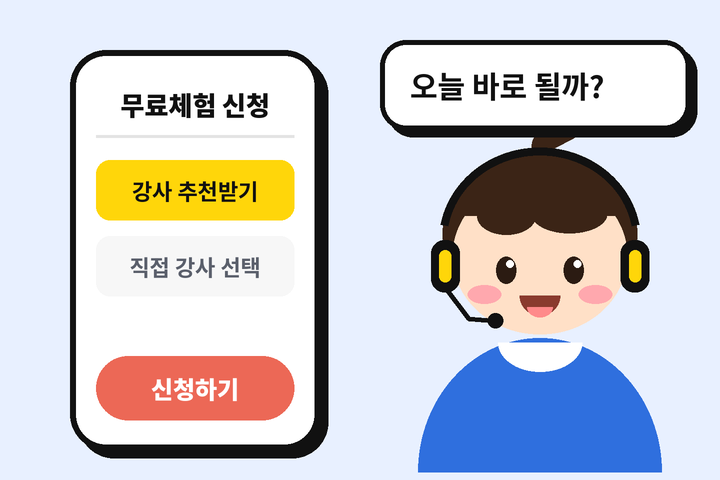
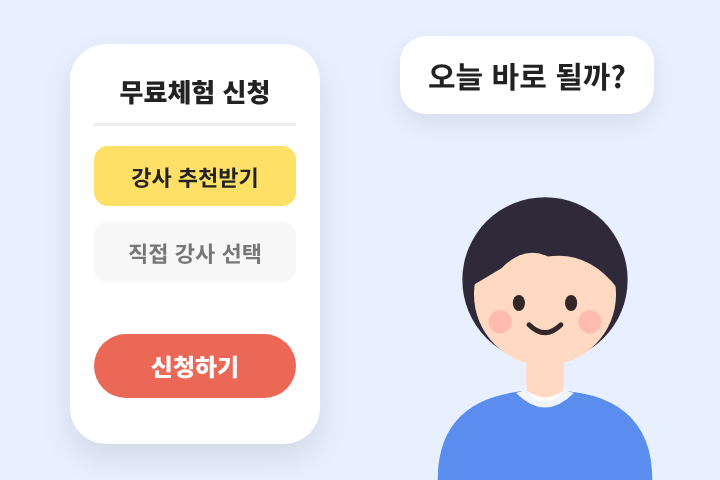
Redraw about page illustrations with soft pastel characters
Claude-Session: https://claude.ai/code/session_01HUwuhgDghhNRq5em17ycBb

diff --git a/about-assets/tools/about_images.py b/about-assets/tools/about_images.py
@@ -1,111 +1,141 @@
 #!/usr/bin/env python3
 """아인잉글리쉬 about 페이지('왜 아인 화상영어일까?')용 그림 생성기.
+
 사용법: python3 about-assets/tools/about_images.py about-assets/
-블로그 그림과 같은 캐릭터(blog_images.py)를 쓰고, 색은 로고 코랄에 맞춘다.
+부드러운 파스텔 캐릭터(테두리 없는 색면)로 그린다. 색은 로고 코랄에 맞춘다.
+필요한 것: playwright, Chrome(/usr/bin/google-chrome), Noto Sans CJK KR 글꼴.
 """
 import sys, os
-sys.path.insert(0, os.path.join(os.path.dirname(__file__), '..', '..', 'blog-assets', 'tools'))
-from blog_images import *
-from PIL import ImageDraw
-CORAL='#EC6856'; TINT='#FDF1EE'; SOFT='#F7F7F7'; LINE='#E3E3E3'; GREEN='#10B981'; GBG='#ECFDF5'; ABG='#FFFBEB'; AMB='#D97706'
-STU=dict(shirt=BLUE); TEA=dict(shirt=CORAL,hair='#5A2E12',long=True,mood='smile')
-def strike(d,x,y,t,f,fill=GRAY,anchor='lm'):
-    T(d,(x,y),t,f,fill,anchor); w=tw(t,f); x0=x if anchor[0]=='l' else x-w/2
-    d.line([(x0*S,(y+2)*S),((x0+w)*S,(y+2)*S)],fill=RED,width=4*S)
-def pill(d,x,y,t,size=24,fill=INK,fg=WHITE,right=False):
-    f=F('Bold',size); w=tw(t,f)+size*1.6; h=size*2.1
-    x0=x-w if right else x; R(d,(x0,y,x0+w,y+h),h/2,fill=fill); T(d,(x0+w/2,y+h/2),t,f,fg,'mm'); return w
-def bubble(d,box,lines,fill=WHITE,size=34,weight='Bold',fg=INK,tail=None):
-    card(d,box,r=26,fill=fill,off=7); x0,y0,x1,y1=box; n=len(lines); lh=size*1.45; y=(y0+y1)/2-lh*(n-1)/2
-    for l in lines:
-        T(d,(x0+30,y),l,F(weight,fit(l,weight,size,x1-x0-60)),fg,'lm'); y+=lh
 
-def hero(name):
-    W_,H_=1440,860; im=canvas(W_,H_,WHITE); d=ImageDraw.Draw(im)
-    R(d,(0,0,W_,96),0,fill=INK)
-    for i,c in enumerate((RED,YEL,MINT)): E(d,(48+i*44,34,76+i*44,62),fill=c)
-    T(d,(200,48),'1:1 화상수업',F('Bold',30),WHITE,'lm')
-    tile(im,(80,150,480,550),'#CFE0FF',mood='think',**STU); tile(im,(960,150,1360,550),'#FFD3CC',**TEA); d=ImageDraw.Draw(im)
-    T(d,(280,588),'학생',F('Bold',28),INK,'mm'); T(d,(1160,588),'선생님',F('Bold',28),INK,'mm')
-    T(d,(720,190),'그 자리에서 바로 교정',F('Bold',30),GRAY,'mm')
-    strike(d,720,290,'try',F('Black',84),GRAY,'mm'); T(d,(720,372),'↓',F('Black',44),CORAL,'mm')
-    f=F('Black',112); w=tw('tries',f); R(d,(720-w/2-22,410,720+w/2+22,545),18,fill=YEL); T(d,(720,474),'tries',f,INK,'mm')
-    card(d,(80,640,690,800),r=26,fill=SOFT,off=7); T(d,(112,682),'학생이 말한 문장',F('Bold',24),GRAY,'lm'); strike(d,112,744,'He always try to care of others.',F('Medium',33),GRAY)
-    card(d,(750,640,1360,800),r=26,fill=YEL,off=7); T(d,(782,682),'선생님이 고쳐 준 문장',F('Bold',24),INK,'lm')
-    t='He always tries to take care of others.'; T(d,(782,744),t,F('Black',fit(t,'Black',33,548)),INK,'lm')
-    out(im,name)
+CORAL = '#EC6856'; INK = '#222222'; GRAY = '#777777'; YEL = '#FFE066'; TINT = '#FDF1EE'
+BLUE_BG = '#E8F0FF'; PINK_BG = '#FFE9E4'; YEL_BG = '#FFF6D6'; MINT_BG = '#EAFBF4'
 
-def pain(name,mood,bubbles,bg):
-    W_,H_=720,480; im=canvas(W_,H_,bg); d=ImageDraw.Draw(im)
-    bust(im,170,250,92,H_,mood=mood,**STU); d=ImageDraw.Draw(im); y=70
-    for lines,fill in bubbles:
-        h=44+len(lines)*50; bubble(d,(330,y,676,y+h),lines,fill=fill,size=32); y+=h+26
-    out(im,name)
+def ch(role='s', mood='smile'):
+    """role: s(학생) | t(선생님), mood: smile | think"""
+    t = role == 't'
+    hair = '#6B4226' if t else '#2F2A3A'; shirt = CORAL if t else '#5B8DEF'; skin = '#FFD9C2'
+    g = ''
+    if t: g += f'<path d="M40,92 Q40,28 100,28 Q160,28 160,92 L164,172 Q150,184 132,176 L132,120 L68,120 L68,176 Q50,184 36,172 Z" fill="{hair}"/>'
+    else: g += f'<circle cx="100" cy="84" r="57" fill="{hair}"/>'
+    g += f'<path d="M26,222 Q26,160 100,160 Q174,160 174,222 Z" fill="{shirt}"/>'
+    g += f'<rect x="87" y="132" width="26" height="36" rx="12" fill="{skin}"/>'
+    g += '<path d="M80,162 Q100,182 120,162 L113,160 Q100,170 87,160 Z" fill="#fff" opacity=".9"/>'
+    g += f'<circle cx="100" cy="94" r="49" fill="{skin}"/>'
+    if t: g += f'<path d="M52,90 Q56,40 104,38 Q148,42 149,92 Q126,60 52,90 Z" fill="{hair}"/>'
+    else: g += f'<path d="M50,88 Q58,40 100,38 Q144,40 150,90 Q130,64 102,68 Q86,60 70,76 Q60,82 50,88 Z" fill="{hair}"/>'
+    g += '<ellipse cx="82" cy="100" rx="4.2" ry="5.6" fill="#33272A"/><ellipse cx="118" cy="100" rx="4.2" ry="5.6" fill="#33272A"/>'
+    g += '<circle cx="69" cy="113" r="8" fill="#FF9E9E" opacity=".5"/><circle cx="131" cy="113" r="8" fill="#FF9E9E" opacity=".5"/>'
+    if mood == 'think':
+        g += '<path d="M73,88 L89,84" stroke="#33272A" stroke-width="3" stroke-linecap="round"/><path d="M111,84 L127,88" stroke="#33272A" stroke-width="3" stroke-linecap="round"/>'
+        g += '<ellipse cx="100" cy="119" rx="5" ry="6" fill="#B5533F"/>'
+        g += '<path d="M160,50 Q170,66 170,74 A10,10 0 0 1 150,74 Q150,66 160,50 Z" fill="#8CC8FF"/>'
+    else:
+        g += '<path d="M89,115 Q100,126 111,115" fill="none" stroke="#33272A" stroke-width="3.4" stroke-linecap="round"/>'
+    return f'<svg xmlns="http://www.w3.org/2000/svg" viewBox="0 0 200 222">{g}</svg>'
 
-def flow(name,n,draw):
-    W_=H_=720; im=canvas(W_,H_,TINT); d=ImageDraw.Draw(im)
-    E(d,(40,40,128,128),fill=CORAL); T(d,(84,84),str(n),F('Black',48),WHITE,'mm')
-    draw(im,d); out(im,name)
-def f1(im,d):
-    tile(im,(70,190,340,460),'#CFE0FF',mood='smile',**STU); tile(im,(380,190,650,460),'#FFD3CC',**TEA); d=ImageDraw.Draw(im)
-    T(d,(205,494),'학생',F('Bold',26),INK,'mm'); T(d,(515,494),'선생님',F('Bold',26),INK,'mm')
-    bubble(d,(120,540,600,650),['25분, 선생님과 1:1 대화'],fill=WHITE,size=34)
-def f2(im,d):
-    bubble(d,(70,180,650,300),['I go to there yesterday.'],fill=WHITE,size=38,weight='Medium',fg=GRAY)
-    d.line([(100*S,242*S),(560*S,242*S)],fill=RED,width=4*S)
-    T(d,(360,352),'↓',F('Black',52),CORAL,'mm')
-    bubble(d,(70,410,650,540),['I went there yesterday.'],fill=YEL,size=42,weight='Black')
-    T(d,(360,610),'틀린 문장은 그 자리에서',F('Bold',32),INK,'mm')
-def f3(im,d):
-    R(d,(190+10,150+10,530+10,680+10),44,fill=INK); R(d,(190,150,530,680),44,fill=WHITE,outline=INK,width=6)
-    T(d,(360,204),'일일평가서',F('Black',30),INK,'mm'); d.line([(220*S,240*S),(500*S,240*S)],fill=LINE,width=3*S)
-    R(d,(220,264,500,330),12,fill=SOFT); T(d,(238,297),'Q1. Student: …',F('Medium',22),GRAY,'lm')
-    R(d,(220,346,500,446),14,fill=GBG); T(d,(238,372),'BETTER EXPRESSION',F('Bold',17),GREEN,'lm'); R(d,(238,396,470,410),7,fill='#065F46'); R(d,(238,420,400,432),6,fill='#6FCFB0')
-    R(d,(220,462,500,552),14,fill=ABG); T(d,(238,488),'ALTERNATIVE',F('Bold',17),AMB,'lm'); R(d,(238,512,450,526),7,fill='#92400E')
-    R(d,(220,580,500,640),30,fill=CORAL); T(d,(360,610),'오늘의 복습 완료하기',F('Bold',22),WHITE,'mm')
-    E(d,(486,116,574,204),fill=RED); T(d,(530,160),'1',F('Black',46),WHITE,'mm')
-def f4(im,d):
-    bust(im,190,330,100,600,mood='smile',**STU); d=ImageDraw.Draw(im)
-    card(d,(330,190,670,480),r=26,fill=WHITE,off=7); T(d,(360,236),'실전 퀴즈',F('Bold',24),GRAY,'lm')
-    T(d,(360,296),'I ____ there',F('Bold',36),INK,'lm'); T(d,(360,348),'yesterday.',F('Bold',36),INK,'lm')
-    f=F('Black',36); w=tw('went',f); R(d,(360-8,400,360+w+8,448),8,fill=YEL); T(d,(360,424),'went',f,INK,'lm')
-    E(d,(590,170,690,270),fill=GREEN); d.line([(614*S,222*S),(634*S,242*S),(668*S,200*S)],fill=WHITE,width=10*S,joint='curve')
-    R(d,(0,600,720,720),0,fill=TINT); T(d,(360,650),'고친 문장을 내 것으로',F('Bold',32),INK,'mm')
+CSS = f'''
+*{{box-sizing:border-box}} body{{margin:0}}
+.cv{{position:relative;overflow:hidden;font-family:"Noto Sans CJK KR","Noto Sans KR",sans-serif;color:{INK}}}
+.a{{position:absolute}}
+.tile{{position:absolute;border-radius:36px;overflow:hidden;display:flex;align-items:flex-end;justify-content:center}}
+.tile svg{{width:88%;display:block}}
+.fig svg{{display:block;width:100%}}
+.bub{{position:absolute;background:#fff;border-radius:26px;padding:18px 28px;font-weight:700;font-size:30px;line-height:1.4;box-shadow:0 10px 24px rgba(0,0,0,.08);white-space:nowrap}}
+.bub.y{{background:{YEL}}}
+.card{{position:absolute;background:#fff;border-radius:28px;box-shadow:0 14px 32px rgba(0,0,0,.10)}}
+.pill{{position:absolute;background:{INK};color:#fff;border-radius:40px;padding:8px 22px;font-weight:700;font-size:22px;white-space:nowrap}}
+.lab{{position:absolute;font-weight:700;font-size:26px;text-align:center}}
+.num{{position:absolute;left:40px;top:40px;width:88px;height:88px;border-radius:50%;background:{CORAL};color:#fff;font-weight:900;font-size:46px;line-height:88px;text-align:center}}
+.x{{text-decoration:line-through;text-decoration-color:{CORAL};text-decoration-thickness:4px;color:{GRAY}}}
+.cap{{position:absolute;left:0;right:0;text-align:center;font-weight:700;font-size:32px}}
+'''
 
-def trial(name,bg,draw):
-    W_,H_=720,480; im=canvas(W_,H_,bg); d=ImageDraw.Draw(im); draw(im,d); out(im,name)
-def phone(d,x,y,w,h):
-    R(d,(x+8,y+8,x+w+8,y+h+8),36,fill=INK); R(d,(x,y,x+w,y+h),36,fill=WHITE,outline=INK,width=6)
-def t1(im,d):
-    phone(d,70,50,250,400); T(d,(195,104),'무료체험 신청',F('Black',26),INK,'mm'); d.line([(96*S,136*S),(294*S,136*S)],fill=LINE,width=3*S)
-    R(d,(96,160,294,220),14,fill=YEL); T(d,(195,190),'강사 추천받기',F('Bold',22),INK,'mm')
-    R(d,(96,236,294,296),14,fill=SOFT); T(d,(195,266),'직접 강사 선택',F('Bold',22),GRAY,'mm')
-    R(d,(96,356,294,420),32,fill=CORAL); T(d,(195,388),'신청하기',F('Black',24),WHITE,'mm')
-    bust(im,540,250,84,480,mood='smile',**STU); d=ImageDraw.Draw(im)
-    bubble(d,(380,40,690,130),['오늘 바로 될까?'],fill=WHITE,size=30)
-def t2(im,d):
-    tile(im,(50,110,300,360),'#CFE0FF',mood='smile',**STU); tile(im,(330,110,580,360),'#FFD3CC',**TEA); d=ImageDraw.Draw(im)
-    E(d,(520,30,700,210),fill=INK); E(d,(530,40,690,200),fill=YEL); T(d,(610,120),'15분',F('Black',56),INK,'mm')
-    bubble(d,(120,385,600,455),['Hello! Nice to meet you.'],fill=WHITE,size=30)
-def t3(im,d):
-    card(d,(150,50,570,440),r=28,fill=WHITE,off=8); T(d,(186,100),'레벨테스트 결과',F('Black',28),INK,'lm')
-    E(d,(440,66,540,166),fill=CORAL); T(d,(490,116),'Lv.4',F('Black',34),WHITE,'mm')
-    for i,(n,w) in enumerate((('어휘',0.62),('리스닝',0.74),('유창성',0.5),('문법',0.56),('발음',0.7))):
-        y=200+i*46; T(d,(186,y),n,F('Bold',22),GRAY,'lm'); R(d,(280,y-9,534,y+9),9,fill=SOFT); R(d,(280,y-9,280+254*w,y+9),9,fill=CORAL)
-    pill(d,360-110,10,'30분~1시간 안에 도착',22,fill=INK)
-def t4(im,d):
-    bust(im,150,260,84,480,mood='smile',**STU); d=ImageDraw.Draw(im)
-    bubble(d,(290,60,690,200),['수업 시간과 교재,','같이 정해 드릴게요'],fill=YEL,size=30)
-    bubble(d,(360,240,690,320),['네, 좋아요!'],fill=WHITE,size=30)
-    pill(d,290,360,'학습 매니저 상담',22,fill=INK)
+def tile(x, y, s, bg, role, mood='smile'):
+    return f'<div class="tile" style="left:{x}px;top:{y}px;width:{s}px;height:{s}px;background:{bg}">{ch(role, mood)}</div>'
+def fig(x, w, role='s', mood='smile'):
+    return f'<div class="a fig" style="left:{x}px;bottom:0;width:{w}px">{ch(role, mood)}</div>'
+def bub(x, y, html, cls='', extra=''):
+    return f'<div class="bub {cls}" style="left:{x}px;top:{y}px;{extra}">{html}</div>'
+
+def hero():
+    return 1440, 860, '#ffffff', (
+        f'<div class="a" style="left:0;top:0;right:0;height:92px;background:{TINT}"></div>'
+        + ''.join(f'<div class="a" style="left:{48+i*40}px;top:34px;width:24px;height:24px;border-radius:50%;background:{c}"></div>' for i, c in enumerate(('#FF8A7A', '#FFD666', '#7ADFB5')))
+        + '<div class="a" style="left:190px;top:22px;font-weight:700;font-size:30px">1:1 화상수업</div>'
+        + tile(80, 150, 400, BLUE_BG, 's', 'think') + tile(960, 150, 400, PINK_BG, 't')
+        + '<div class="lab" style="left:80px;top:566px;width:400px">학생</div><div class="lab" style="left:960px;top:566px;width:400px">선생님</div>'
+        + f'<div class="a" style="left:480px;width:480px;top:170px;text-align:center;font-weight:700;font-size:30px;color:{GRAY}">그 자리에서 바로 교정</div>'
+        + '<div class="a x" style="left:480px;width:480px;top:226px;text-align:center;font-weight:900;font-size:84px;line-height:1.2">try</div>'
+        + f'<div class="a" style="left:480px;width:480px;top:336px;text-align:center;font-weight:900;font-size:48px;color:{CORAL}">↓</div>'
+        + f'<div class="a" style="left:480px;width:480px;top:410px;text-align:center"><span style="display:inline-block;background:{YEL};border-radius:24px;padding:0 36px;font-weight:900;font-size:108px;line-height:1.3">tries</span></div>'
+        + f'<div class="card" style="left:80px;top:650px;width:610px;height:160px;background:#F7F7F7;box-shadow:none;padding:26px 32px"><div style="font-weight:700;font-size:24px;color:{GRAY}">학생이 말한 문장</div><div class="x" style="margin-top:14px;font-weight:500;font-size:33px">He always try to care of others.</div></div>'
+        + f'<div class="card" style="left:750px;top:650px;width:610px;height:160px;background:{YEL};box-shadow:none;padding:26px 32px"><div style="font-weight:700;font-size:24px">선생님이 고쳐 준 문장</div><div style="margin-top:14px;font-weight:900;font-size:29px;white-space:nowrap">He always tries to take care of others.</div></div>')
+
+def pain(mood, bubbles, bg):
+    body = fig(10, 320, 's', mood); y = 64
+    for html, cls in bubbles:
+        lines = html.count('<br>') + 1
+        body += bub(336, y, html, cls); y += 36 + lines * 42 + 22
+    return 720, 480, bg, body
+
+def flow(n, body): return 720, 720, TINT, f'<div class="num">{n}</div>' + body
+F1 = (tile(80, 170, 270, BLUE_BG, 's') + tile(370, 170, 270, PINK_BG, 't')
+      + '<div class="lab" style="left:80px;top:452px;width:270px">학생</div><div class="lab" style="left:370px;top:452px;width:270px">선생님</div>'
+      + bub(130, 530, '25분, 선생님과 1:1 대화', '', 'font-size:34px'))
+F2 = (bub(80, 180, '<span class="x">I go to there yesterday.</span>', '', 'font-size:38px;font-weight:500;width:560px')
+      + f'<div class="cap" style="top:316px;font-size:52px;font-weight:900;color:{CORAL}">↓</div>'
+      + bub(80, 410, 'I went there yesterday.', 'y', 'font-size:42px;font-weight:900;width:560px;padding:26px 28px')
+      + '<div class="cap" style="top:588px">틀린 문장은 그 자리에서</div>')
+F3 = (f'<div class="card" style="left:190px;top:150px;width:340px;height:530px;border-radius:44px;padding:30px 28px">'
+      f'<div style="text-align:center;font-weight:900;font-size:30px">일일평가서</div><div style="height:3px;background:#eee;margin:16px 0 22px"></div>'
+      f'<div style="background:#F7F7F7;border-radius:12px;padding:16px 18px;font-size:22px;color:{GRAY}">Q1. Student: …</div>'
+      '<div style="background:#ECFDF5;border-radius:14px;padding:14px 18px;margin-top:16px"><div style="font-weight:700;font-size:17px;color:#10B981">BETTER EXPRESSION</div><div style="height:14px;width:220px;border-radius:7px;background:#065F46;margin-top:12px"></div><div style="height:12px;width:150px;border-radius:6px;background:#6FCFB0;margin-top:10px"></div></div>'
+      '<div style="background:#FFFBEB;border-radius:14px;padding:14px 18px;margin-top:16px"><div style="font-weight:700;font-size:17px;color:#D97706">ALTERNATIVE</div><div style="height:14px;width:200px;border-radius:7px;background:#92400E;margin-top:12px"></div></div>'
+      f'<div style="background:{CORAL};border-radius:30px;margin-top:26px;height:60px;line-height:60px;text-align:center;color:#fff;font-weight:700;font-size:22px">오늘의 복습 완료하기</div></div>'
+      f'<div class="a" style="left:486px;top:116px;width:88px;height:88px;border-radius:50%;background:#FF5A4D;color:#fff;font-weight:900;font-size:46px;line-height:88px;text-align:center;box-shadow:0 8px 16px rgba(0,0,0,.15)">1</div>')
+F4 = (tile(40, 200, 300, BLUE_BG, 's')
+      + f'<div class="card" style="left:350px;top:190px;width:330px;height:290px;padding:26px 30px"><div style="font-weight:700;font-size:24px;color:{GRAY}">실전 퀴즈</div><div style="margin-top:14px;font-weight:700;font-size:36px;line-height:1.45">I ____ there<br>yesterday.</div><div style="margin-top:14px"><span style="background:{YEL};border-radius:8px;padding:2px 12px;font-weight:900;font-size:36px">went</span></div></div>'
+      + '<div class="a" style="left:600px;top:150px;width:100px;height:100px;border-radius:50%;background:#10B981;box-shadow:0 8px 16px rgba(0,0,0,.15)"><svg viewBox="0 0 100 100"><path d="M26,52 L44,70 L76,34" fill="none" stroke="#fff" stroke-width="11" stroke-linecap="round" stroke-linejoin="round"/></svg></div>'
+      + '<div class="cap" style="top:626px">고친 문장을 내 것으로</div>')
+
+T1 = (f'<div class="card" style="left:70px;top:44px;width:250px;height:400px;border-radius:36px;padding:28px 24px">'
+      '<div style="text-align:center;font-weight:900;font-size:26px">무료체험 신청</div><div style="height:3px;background:#eee;margin:14px 0 20px"></div>'
+      f'<div style="background:{YEL};border-radius:14px;height:60px;line-height:60px;text-align:center;font-weight:700;font-size:22px">강사 추천받기</div>'
+      f'<div style="background:#F7F7F7;border-radius:14px;height:60px;line-height:60px;text-align:center;font-weight:700;font-size:22px;color:{GRAY};margin-top:16px">직접 강사 선택</div>'
+      f'<div style="background:{CORAL};border-radius:32px;height:64px;line-height:64px;text-align:center;font-weight:900;font-size:24px;color:#fff;margin-top:52px">신청하기</div></div>'
+      + fig(400, 290) + bub(400, 36, '오늘 바로 될까?'))
+T2 = (tile(50, 96, 250, '#D6E4FF', 's') + tile(330, 96, 250, '#FFD9D0', 't')
+      + f'<div class="a" style="left:528px;top:30px;width:164px;height:164px;border-radius:50%;background:{YEL};font-weight:900;font-size:54px;line-height:164px;text-align:center;box-shadow:0 10px 20px rgba(0,0,0,.12)">15분</div>'
+      + bub(120, 372, 'Hello! Nice to meet you.'))
+T3 = (f'<div class="card" style="left:150px;top:64px;width:420px;height:380px;padding:30px 36px"><div style="font-weight:900;font-size:28px;line-height:70px">레벨테스트 결과</div>'
+      f'<div class="a" style="right:30px;top:20px;width:96px;height:96px;border-radius:50%;background:{CORAL};color:#fff;font-weight:900;font-size:32px;line-height:96px;text-align:center">Lv.4</div>'
+      + ''.join(f'<div style="display:flex;align-items:center;margin-top:{14 if i==0 else 20}px"><div style="width:94px;font-weight:700;font-size:22px;color:{GRAY}">{n}</div><div style="flex:1;height:18px;border-radius:9px;background:#F1F1F1"><div style="width:{w}%;height:18px;border-radius:9px;background:{CORAL}"></div></div></div>' for i, (n, w) in enumerate((('어휘', 62), ('리스닝', 74), ('유창성', 50), ('문법', 56), ('발음', 70))))
+      + '</div><div class="pill" style="left:232px;top:16px">30분~1시간 안에 도착</div>')
+T4 = (fig(10, 300) + bub(300, 56, '수업 시간과 교재,<br>같이 정해 드릴게요', 'y') + bub(380, 236, '네, 좋아요!')
+      + '<div class="pill" style="left:300px;top:366px">학습 매니저 상담</div>')
+def trial(bg, body): return 720, 480, bg, body
+
+def scenes():
+    return {
+        'hero_scene.png': hero(),
+        'pain_1.png': pain('think', [('Um… I…<br>yesterday… movie?', '')], BLUE_BG),
+        'pain_2.png': pain('smile', [('It was good.', ''), ('It was good.', ''), ('It was… good.', '')], YEL_BG),
+        'pain_3.png': pain('think', [('I go to there<br>yesterday.', ''), ('Okay! Next~', 'y')], PINK_BG),
+        'pain_4.png': pain('think', [('어제 뭐<br>배웠더라…?', '')], MINT_BG),
+        'flow_1.png': flow(1, F1), 'flow_2.png': flow(2, F2), 'flow_3.png': flow(3, F3), 'flow_4.png': flow(4, F4),
+        'trial_1.png': trial(BLUE_BG, T1), 'trial_2.png': trial(YEL_BG, T2), 'trial_3.png': trial(PINK_BG, T3), 'trial_4.png': trial(MINT_BG, T4),
+    }
 
 def main(outdir):
-    os.makedirs(outdir,exist_ok=True); p=lambda n: os.path.join(outdir,n)
-    hero(p('hero_scene.png'))
-    pain(p('pain_1.png'),'think',[(['Um… I…','yesterday… movie?'],WHITE)],'#E8F0FF')
-    pain(p('pain_2.png'),'smile',[(['It was good.'],WHITE),(['It was good.'],WHITE),(['It was… good.'],WHITE)],'#FFF6D6')
-    pain(p('pain_3.png'),'think',[(['I go to there','yesterday.'],WHITE),(['Okay! Next~'],YEL)],'#FFE9E4')
-    pain(p('pain_4.png'),'think',[(['어제 뭐','배웠더라…?'],WHITE)],'#EAFBF4')
-    for i,fn in enumerate((f1,f2,f3,f4),1): flow(p(f'flow_{i}.png'),i,fn)
-    for i,(fn,bg) in enumerate(((t1,'#E8F0FF'),(t2,'#FFF6D6'),(t3,'#FFE9E4'),(t4,'#EAFBF4')),1): trial(p(f'trial_{i}.png'),bg,fn)
-if __name__=='__main__': main(sys.argv[1])
+    from playwright.sync_api import sync_playwright
+    os.makedirs(outdir, exist_ok=True)
+    with sync_playwright() as pw:
+        b = pw.chromium.launch(executable_path='/usr/bin/google-chrome')
+        for name, (w, h, bg, body) in scenes().items():
+            pg = b.new_page(viewport={'width': w, 'height': h})
+            pg.set_content(f'<!DOCTYPE html><html><head><meta charset="utf-8"><style>{CSS}</style></head><body><div class="cv" style="width:{w}px;height:{h}px;background:{bg}">{body}</div></body></html>')
+            pg.screenshot(path=os.path.join(outdir, name)); pg.close(); print(name, (w, h))
+        b.close()
+
+if __name__ == '__main__':
+    main(sys.argv[1])
